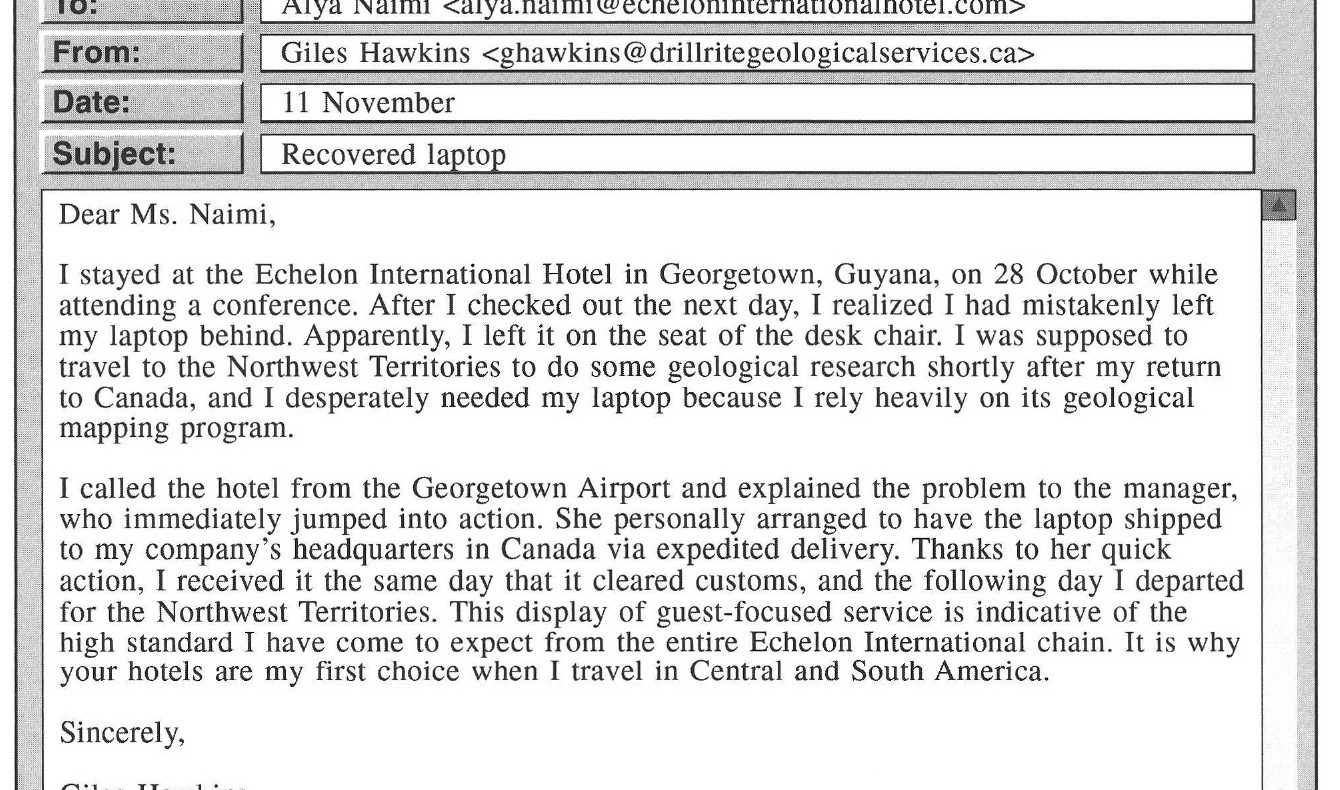
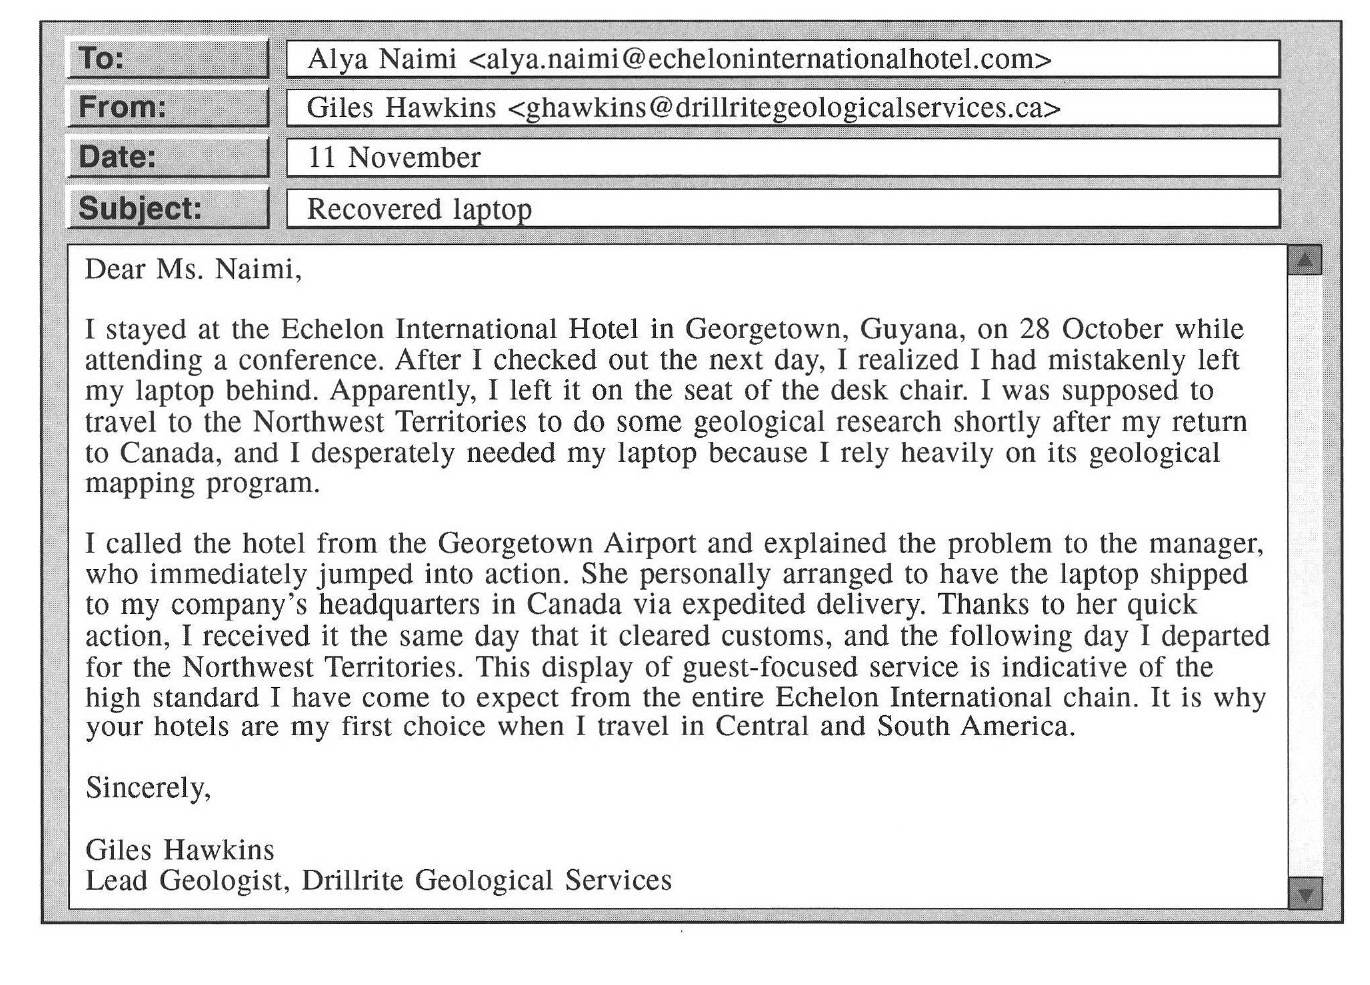
国旗を解説時のみ表示・拡大、音声プレーヤー固定表示、Part7画像の欠け修正、Gemini 503リトライ
① リスニング問題の話者国旗バッジを、設問文の段階では表示せず、解説が表示された
   時点で初めて出すように変更(Part1/2はbuildP12ExplainHtml側で既に解説限定
   だったが、設問文タイトル側にも重複表示されていたのを削除。Part3/4は採点後の
   タイミングで初めて付与するよう変更)。あわせてバッジのサイズを1.75倍に拡大
② 音声再生インジケータをPart1・Part6・Part7でも固定表示(sticky)になるよう
   修正(Part3/4は既に対応済みだった)
③ TEST1 Part7 Q181-185の2つ目の画像(メールの文書)が上下ともに見切れていた
   問題を、公式PDFから正しい範囲で再度切り出して修正。あわせて他の画像も全て
   目視確認し、Q196-200の1つ目の画像(記事)も末尾の1行が欠けていたのを同様に
   修正(Part1/3/4/6/7の全画像を確認、他に欠けは無し)
④ Gemini APIが503(混雑中)を返した場合、無言で失敗させず、同じ鍵のまま
   短い間隔を空けて最大3回まで自動リトライするようにした(Google自身のエラー
   メッセージが「しばらくして再試行してください」と案内しているため)

diff --git a/script.js b/script.js
@@ -86,18 +86,29 @@ if (copyGasBtn) {
 
 const GEMINI_MODEL = 'gemini-3.5-flash-lite';
 
+function sleep(ms) { return new Promise(resolve => setTimeout(resolve, ms)); }
+
 // 無料キーでリクエストし、利用上限(429)に達した場合のみ有料キーへ自動フォールバック
 // する(decode-toeicと同じ方式)。両方試して全て失敗した場合は最後のレスポンスを返す。
+// また、Gemini APIは「モデルが混雑中です」という503を返すことがあり、Google自身の
+// エラーメッセージも「しばらくしてから再試行してください」と案内している。多くの
+// 場合は数秒待って再試行すれば成功するため、503のときだけ同じ鍵のまま短い間隔を
+// 空けて最大3回まで自動リトライする(503のリトライを使い切ってもまだ失敗する場合は、
+// そのままエラーとして返す)。
 async function fetchGeminiWithFailover(url, body) {
   const keys = [getGeminiKey(), getGeminiPaidKey()].filter(Boolean);
   if (!keys.length) throw new Error('Gemini APIキーが設定されていません');
   let res = null;
   for (let i = 0; i < keys.length; i++) {
-    res = await fetch(url, {
-      method: 'POST',
-      headers: { 'Content-Type': 'application/json', 'x-goog-api-key': keys[i] },
-      body: JSON.stringify(body)
-    });
+    for (let attempt = 0; attempt < 3; attempt++) {
+      res = await fetch(url, {
+        method: 'POST',
+        headers: { 'Content-Type': 'application/json', 'x-goog-api-key': keys[i] },
+        body: JSON.stringify(body)
+      });
+      if (res.ok || res.status !== 503) break;
+      if (attempt < 2) await sleep(1200 * (attempt + 1));
+    }
     if (res.ok || res.status !== 429 || i === keys.length - 1) return res;
   }
   return res;
@@ -3642,11 +3653,11 @@ function renderPart1or2() {
   const wrap = document.createElement('div');
   wrap.className = 'q-block';
 
+  // 話者の国旗バッジは、設問文の段階ではまだ出さず、解説が表示された時点で
+  // 初めて出す(buildP12ExplainHtml側で■設問文/■選択肢の見出し横に付与している)。
   const title = document.createElement('div');
   title.className = 'q-text';
   title.textContent = `Q${q.number}`;
-  if (isPart1 && q.speaker) title.appendChild(buildSpeakerBadges(q.speaker));
-  else if (!isPart1 && q.speakers) title.appendChild(buildSpeakerBadges(q.speakers));
   wrap.appendChild(title);
 
   if (isPart1 && q.image) {
@@ -3657,7 +3668,7 @@ function renderPart1or2() {
     wrap.appendChild(img);
   }
 
-  wrap.appendChild(createAudioPlayerWidget(q.audio, { autoplay: true, sticky: !isPart1 }));
+  wrap.appendChild(createAudioPlayerWidget(q.audio, { autoplay: true, sticky: true }));
 
   const choiceTexts = isPart1 ? q.statements : q.responses;
   const letters = Object.keys(choiceTexts);
@@ -3775,11 +3786,12 @@ function renderPart3or4() {
     return;
   }
 
+  // 話者の国旗バッジは設問文の段階ではまだ出さず、解説が表示された時点で
+  // 初めて各設問の見出し(t)横に付与する(下の採点処理内を参照)。
   const wrap = document.createElement('div');
   const audioLabel = document.createElement('div');
   audioLabel.className = 'audio-label';
   audioLabel.textContent = `Q${g.questions[0]}-${g.questions[g.questions.length - 1]}`;
-  if (g.speakers) audioLabel.appendChild(buildSpeakerBadges(g.speakers));
   wrap.appendChild(audioLabel);
   wrap.appendChild(createAudioPlayerWidget([g.audioConversation || g.audioTalk, g.audioQuestions], { autoplay: true, sticky: true }));
   if (g.graphicImage) {
@@ -3807,7 +3819,6 @@ function renderPart3or4() {
     const t = document.createElement('div');
     t.className = 'q-text';
     t.textContent = `${item.number}. ${item.text}`;
-    if (g.speakers) t.appendChild(buildSpeakerBadges(g.speakers));
     block.appendChild(t);
 
     const choicesDiv = document.createElement('div');
@@ -3836,7 +3847,7 @@ function renderPart3or4() {
     const pdfSlot = document.createElement('div');
     block.appendChild(pdfSlot);
 
-    blocks[item.number] = { choicesDiv, explainDiv, letters, askAiSlot, pdfSlot };
+    blocks[item.number] = { t, choicesDiv, explainDiv, letters, askAiSlot, pdfSlot };
     blocksContainer.appendChild(block);
   });
   wrap.appendChild(wrapWithGroupHistorySidebar(blocksContainer, state.test, g.questions));
@@ -3852,7 +3863,7 @@ function renderPart3or4() {
       nextBtn.disabled = true;
       nextBtn.textContent = '採点中...';
       g.items.forEach(item => {
-        const { choicesDiv, explainDiv, letters } = blocks[item.number];
+        const { t, choicesDiv, explainDiv, letters } = blocks[item.number];
         const isCorrect = p34.selections[item.number] === item.answer;
         const buttons = choicesDiv.querySelectorAll('.choice');
         buttons.forEach((b, i) => {
@@ -3860,6 +3871,8 @@ function renderPart3or4() {
           if (letters[i] === item.answer) b.classList.add('correct');
           else if (letters[i] === p34.selections[item.number]) b.classList.add('wrong');
         });
+        // 話者の国旗バッジは、解説が表示されるこのタイミングで初めて付与する。
+        if (g.speakers) t.appendChild(buildSpeakerBadges(g.speakers));
         explainDiv.style.display = 'block';
         explainDiv.textContent = (isCorrect ? '正解です!\n\n' : '不正解です。\n\n') + '解説を生成中...';
       });
@@ -4211,7 +4224,7 @@ function renderPart6() {
       );
       if (p.audio) {
         audioSlot.style.display = 'block';
-        audioSlot.appendChild(createAudioPlayerWidget(p.audio, {}));
+        audioSlot.appendChild(createAudioPlayerWidget(p.audio, { sticky: true }));
       }
       translateSlot.style.display = 'block';
       translateSlot.appendChild(buildTranslatableBlock(p.text, `${state.test}-6-${p.questions[0]}`));
@@ -4307,7 +4320,7 @@ function renderPart7() {
       );
       if (p.audio) {
         audioSlot.style.display = 'block';
-        audioSlot.appendChild(createAudioPlayerWidget(p.audio, {}));
+        audioSlot.appendChild(createAudioPlayerWidget(p.audio, { sticky: true }));
       }
       translateSlots.forEach(({ slot, doc, di }) => {
         slot.style.display = 'block';

diff --git a/style.css b/style.css
@@ -264,37 +264,38 @@ button:disabled{opacity:.4;cursor:default;filter:none;}
   line-height:1.6;
 }
 
+/* 1.75倍サイズ(旧: flag幅16px / gender 11px / arrow 12px)。 */
 .speaker-badges{
   display:inline-flex;
   align-items:center;
-  gap:6px;
-  margin-left:10px;
+  gap:10px;
+  margin-left:14px;
   vertical-align:middle;
 }
 .speaker-badge{
   display:inline-flex;
   align-items:center;
-  gap:3px;
+  gap:5px;
   background:#faf7ee;
   border:1px solid var(--line);
-  border-radius:6px;
-  padding:2px 6px;
+  border-radius:8px;
+  padding:4px 10px;
   font-weight:700;
 }
 .speaker-flag{
-  width:16px;
+  width:28px;
   height:auto;
   display:block;
-  border-radius:2px;
+  border-radius:3px;
 }
 .speaker-gender{
   font-family:'JetBrains Mono',monospace;
-  font-size:11px;
+  font-size:19px;
   color:var(--text-soft);
 }
 .speaker-arrow{
   color:var(--text-soft);
-  font-size:12px;
+  font-size:21px;
 }
 
 .choice{

diff --git a/index.html b/index.html
@@ -7,7 +7,7 @@
 <link rel="icon" type="image/svg+xml" href="favicon.svg">
 <link rel="preconnect" href="https://fonts.googleapis.com">
 <link href="https://fonts.googleapis.com/css2?family=Shippori+Mincho:wght@500;700&family=Noto+Sans+JP:wght@400;500;700&family=JetBrains+Mono:wght@400;600&display=swap" rel="stylesheet">
-<link rel="stylesheet" href="style.css?v=47">
+<link rel="stylesheet" href="style.css?v=48">
 </head>
 <body>
 <div class="wrap">
@@ -214,6 +214,6 @@ function doPost(e) {
   </main>
 </div>
 
-  <script src="script.js?v=77"></script>
+  <script src="script.js?v=78"></script>
 </body>
 </html>
